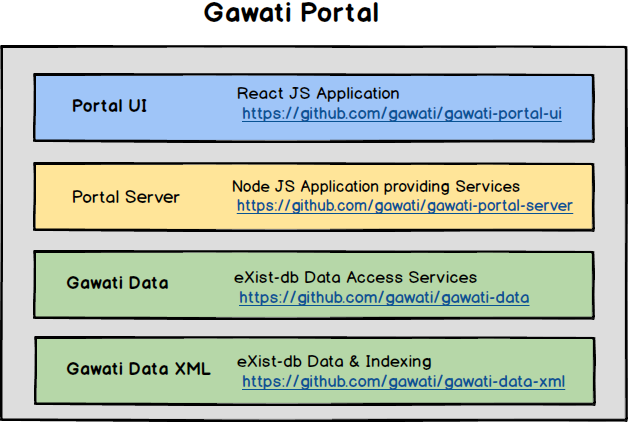
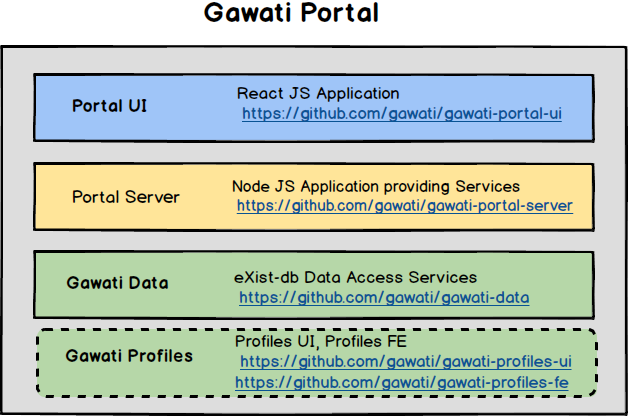
Updating documentation

diff --git a/docs/source/development/dev-env-local.rst b/docs/source/development/dev-env-local.rst
@@ -13,7 +13,10 @@ The below instructions are not specific to an operating system, the components w
     4. **Ant**: Download and `install Ant <http://ant.apache.org/manual/install.html#installing>`_ 
     5. **Apache HTTPD 2.4.x**: Install Apache, on Cent OS, Ubuntu and OS X this will likely be installed by default, on Windows you will have to download and install, see `Apache for Windows <https://www.apachehaus.com/cgi-bin/download.plx>`_; enable `mod_alias`, `mod_rewrite`, `mod_proxy`, `mod_proxy_http` and enable htaccess.
     6. **KeyCloak 3.4.1**: Authentication server, see :doc:`./authentication` 
-    7. *Visual Studio Code*: This is if you want play around with gawati code. Download, and setup Visual Studio Code (there are versions for Windows, OS X and Linux) for development, see `VS Code Setup <./using-vscode.rst>`_
+    7. **RabbitMQ 3.7.6**: Message Queue server, used by the content sync engine that moves data between the  :ref:`gawati-editor` and the  :ref:`gawati-portal` see `installing rabbitmq server <https://www.rabbitmq.com/download.html>`_, `version 3.7.6 <https://bintray.com/rabbitmq/all/rabbitmq-server/3.7.6>`_ you will need to install Erlang 20.3 before that, see `installing erlang <http://www.erlang.org/downloads/20.3>`_.
+    8. **MongoDB 3.6.5 Community Edition**: Used by the Gawati User Profiles system, see `Download MongoDB <https://www.mongodb.com/download-center?jmp=nav#community>`_ , `Install MongoDb <https://docs.mongodb.com/manual/installation/>`_
+    9. **Jetty 9.4.6.v20170531**: Used by :ref:`gawati-portal` (NOTE: required, only if you are saving legal documents in XML format), `Download <https://repo1.maven.org/maven2/org/eclipse/jetty/jetty-distribution/9.4.6.v20170531/jetty-distribution-9.4.6.v20170531.zip>`_ , `Installing <https://www.eclipse.org/jetty/documentation/9.4.x/index.html>`_.
+    10. *Visual Studio Code*: This is if you want play around with gawati code. Download, and setup Visual Studio Code (there are versions for Windows, OS X and Linux) for development, see `VS Code Setup <./using-vscode.rst>`_
 
 
 .. contents:: Table of Contents 
@@ -143,7 +146,6 @@ Finally Rebuild the Database Index
   <success>Build Sort index</success>
 
 
-
 Apache Config
 -------------
 
@@ -155,6 +157,19 @@ Development
 We recommend using :doc:`Oxygen XML for developing on eXist-db <./using-oxygen>`. VSCode can also be used (see :ref:`using-vscode-existdb`).
 
 .. _inst-gawati-portal-ui:
+
+
+Accessing eXist-db via SSH tunnelling
+-------------------------------------
+
+If eXist-db is installed in a remote server, by default the server starts on port 8080 and listens only to localhost.
+To access the web-based dashboard from a remote computer, you need to use ssh tunneling. For example, if your remote server  is on the I.P. Address `101.102.103.104`, and eXist-db is on port `8080`, running the following command, will give you access to the eXist-db dashboard on `http://localhost:9999` :
+
+.. code-block:: bash
+  :linenos:
+
+   ssh -vv -i <path to private key> -p 22 -L 9999:127.0.0.1:8080 server_user@101.102.103.104
+
 
 Installing Gawati Portal UI
 ===========================
@@ -234,6 +249,23 @@ This is started by simply running:
   node ./cron.js
 
 
+Additional configuration to integrate with the Profiles service
+----------------------------------------------------------------
+
+The :ref:`gawati-portal` integrates with the :ref:`gawati-profiles` service to provide 
+
+If eXist-db is installed in a remote server, by default the server starts on port 8080 and listens only to localhost.
+To access the web-based dashboard from a remote computer, you need to use ssh tunneling. For example, if your remote server  is on the I.P. Address `101.102.103.104`, and eXist-db is on port `8080`, running the following command, will give you access to the eXist-db dashboard on `http://localhost:9999` :
+
+.. code-block:: bash
+  :linenos:
+
+   ssh -vv -i <path to private key> -p 22 -L 9999:127.0.0.1:8080 server_user@101.102.103.104
+
+
+
+
+
 Apache Config
 -------------
 
@@ -251,16 +283,7 @@ The server can be customized with various envirobment variables which can be spe
   * API_HOST - allows setting the host address to the `gawati-data` server, default is `localhost`
   * API_PORT - allows setting the port number to the `gawati-data` server, default is `8080`
 
-Accessing eXist-db via SSH tunnelling
--------------------------------------
 
-If eXist-db is installed in a remote server, by default the server starts on port 8080 and listens only to localhost.
-To access the web-based dashboard from a remote computer, you need to use ssh tunneling. For example, if your remote server  is on the I.P. Address `101.102.103.104`, and eXist-db is on port `8080`, running the following command, will give you access to the eXist-db dashboard on `http://localhost:9999` :
-
-.. code-block:: bash
-  :linenos:
-
-   ssh -vv -i <path to private key> -p 22 -L 9999:127.0.0.1:8080 server_user@101.102.103.104
 
 
 Starting up Services
@@ -281,6 +304,77 @@ The recommended order is as follows:
     #. :ref:`inst-gawati-profiles-fe`
     #. :ref:`inst-gawati-profiles-ui`
     #. :ref:`inst-gawati-portal-ui`
+
+
+.. _inst-gawati-profiles:
+
+**************************
+Installing Gawati Profiles
+**************************
+
+Gawati Profiles allows authenticated users in system to have a profile with their personal information. 
+The Profiles system supports other functionality in the system, like allowing logged in users to save their searches.
+The profiles system is made up of 3 different components:
+  * MongoDB (as mentioned earlier as a pre-requisite)
+  * profiles-ui - front-end component
+  * profiles-fe  - back-end component
+
+.. _inst-gawati-profiles-fe:
+
+Setting up profiles-fe
+======================
+
+Extract the contents of the zip file into any directory. 
+
+For development environments, clone from git and install it:
+
+.. code-block:: bash
+  :linenos:
+
+  git clone https://github.com/gawati/gawati-profiles-fe.git
+  npm install 
+
+Run the following in the app folder to setup the server:
+
+.. code-block:: bash
+  :linenos:
+
+  npm install 
+
+From that folder, run... :
+
+.. code-block:: bash
+  :linenos:
+
+  npm start
+
+...to start up the web-service. By default it starts on PORT 9003. You can change that by running it as: 
+
+.. code-block:: bash
+  :linenos:
+
+  PORT=11003 npm start
+
+
+.. _inst-gawati-profiles-ui:
+
+Installing Gawati Profiles UI
+=============================
+
+Extract the contents of the zip file onto a directory served by Apache. 
+
+But, if installing for development, clone from git and build:
+
+.. code-block:: bash
+  :linenos:
+
+  git clone https://github.com/gawati/gawati-profiles-ui.git
+  npm install 
+
+And add the corresponding Apache Server configuration entry (See :ref:`conf-profiles-ui`). 
+
+
+
 
 
 .. _inst-gawati-editor:

diff --git a/docs/source/development/dev-and-prod-testing.rst b/docs/source/development/dev-and-prod-testing.rst
@@ -99,6 +99,7 @@ We proxy the eXist-db services on the data.local host.
         RewriteRule ^(.*)$ $1 [R=200,L]
         ### CORS END
 
+        # gawati-data
         <Location ~ "/gwd/(.*)">
         AddType text/cache-manifest .appcache
         ProxyPassMatch  "http://localhost:8080/exist/restxq/gw/$1"
@@ -108,6 +109,7 @@ We proxy the eXist-db services on the data.local host.
         SetEnv proxy-nokeepalive 1
         </Location>
 
+        # gawati-portal-fe
         <Location ~ "/gwp/(.*)">
         AddType text/cache-manifest .appcache
         ProxyPassMatch  "http://localhost:9001/gwp/$1"
@@ -116,6 +118,7 @@ We proxy the eXist-db services on the data.local host.
         SetEnv proxy-nokeepalive 1
         </Location>
 
+        # gawati-client-data
         <Location ~ "/gwdc/(.*)">
         AddType text/cache-manifest .appcache
         ProxyPassMatch  "http://localhost:8080/exist/restxq/gwdc/$1"
@@ -124,6 +127,7 @@ We proxy the eXist-db services on the data.local host.
         SetEnv proxy-nokeepalive 1
         </Location>
 
+        # gawati-profiles-fe
         <Location ~ "/gwu/(.*)">
         AddType text/cache-manifest .appcache
         ProxyPassMatch  "http://localhost:9003/gwu/$1"
@@ -132,10 +136,20 @@ We proxy the eXist-db services on the data.local host.
         SetEnv proxy-nokeepalive 1
         </Location>
 
+        # gawati-editor-fe
         <Location ~ "/gwc/(.*)">
         AddType text/cache-manifest .appcache
         ProxyPassMatch  "http://localhost:9002/gwc/$1"
         ProxyPassReverse "http://localhost:9002/gwc/$1"
+        SetEnv force-proxy-request-1.0 1
+        SetEnv proxy-nokeepalive 1
+        </Location>
+
+        # gawati-xslt-transformer
+        <Location ~ "/gwx/(.*)">
+        AddType text/cache-manifest .appcache
+        ProxyPassMatch  "http://localhost:9005/Gawati/xml/xslt/$1"
+        ProxyPassReverse "http://localhost:9005/Gawati/xml/xslt/$1"
         SetEnv force-proxy-request-1.0 1
         SetEnv proxy-nokeepalive 1
         </Location>
@@ -241,6 +255,15 @@ Apache configuration for portal-ui
 For example: if you want to serve the portal from the `/ui` virtual directory of your domain, and your files are located in `/home/web/apps/gawati-portal-ui`, then use the following apache configuration --  
 
 .. include:: portal-ui-conf.rst
+
+.. _conf-profiles-ui:
+
+Apache configuration for profiles-ui
+----------------------------------
+
+For example: if you want to serve the portal from the `/ui` virtual directory of your domain, and your files are located in `/home/web/apps/gawati-portal-ui`, then use the following apache configuration --  
+
+.. include:: profiles-ui-conf.rst
 
 
 .. _conf-binary:

diff --git a/docs/source/system/gawati-architecture.rst b/docs/source/system/gawati-architecture.rst
@@ -51,3 +51,18 @@ The data entry client is composed of three components:
 There are also other sub-systems of the Gawati Editor System which relate to how documents get published. 
 
 
+.. _gawati-profiles:
+
+**********************
+Gawati Profiles System
+**********************
+
+The Profiles system is a separate application in Gawati that provides user profiles for a gawati application. 
+
+The integration with the other components in Gawati based on single-sign-on (SSO) authentication across the gawati applications.
+
+The Profiles System is composed of 2 different application components which are indicated above in the :ref:`gawati-portal` diagram:
+  * profiles-ui - which provides the front-end and user interface for the profiles system
+  * profiles-fe - which provides access to the mongo-db back-end.
+
+

diff --git a/docs/source/development/profiles-ui-conf.rst b/docs/source/development/profiles-ui-conf.rst
@@ -1,0 +1,11 @@
+.. code-block:: apacheconf
+  :linenos:
+
+    Alias /profiles "/home/web/apps/gawati-profiles-ui"
+    <Directory "/home/web/apps/gawati-profiles-ui">	
+      DirectoryIndex "index.html"
+      Require all granted
+      AllowOverride All
+      Order allow,deny
+      Allow from all
+    </Directory>
